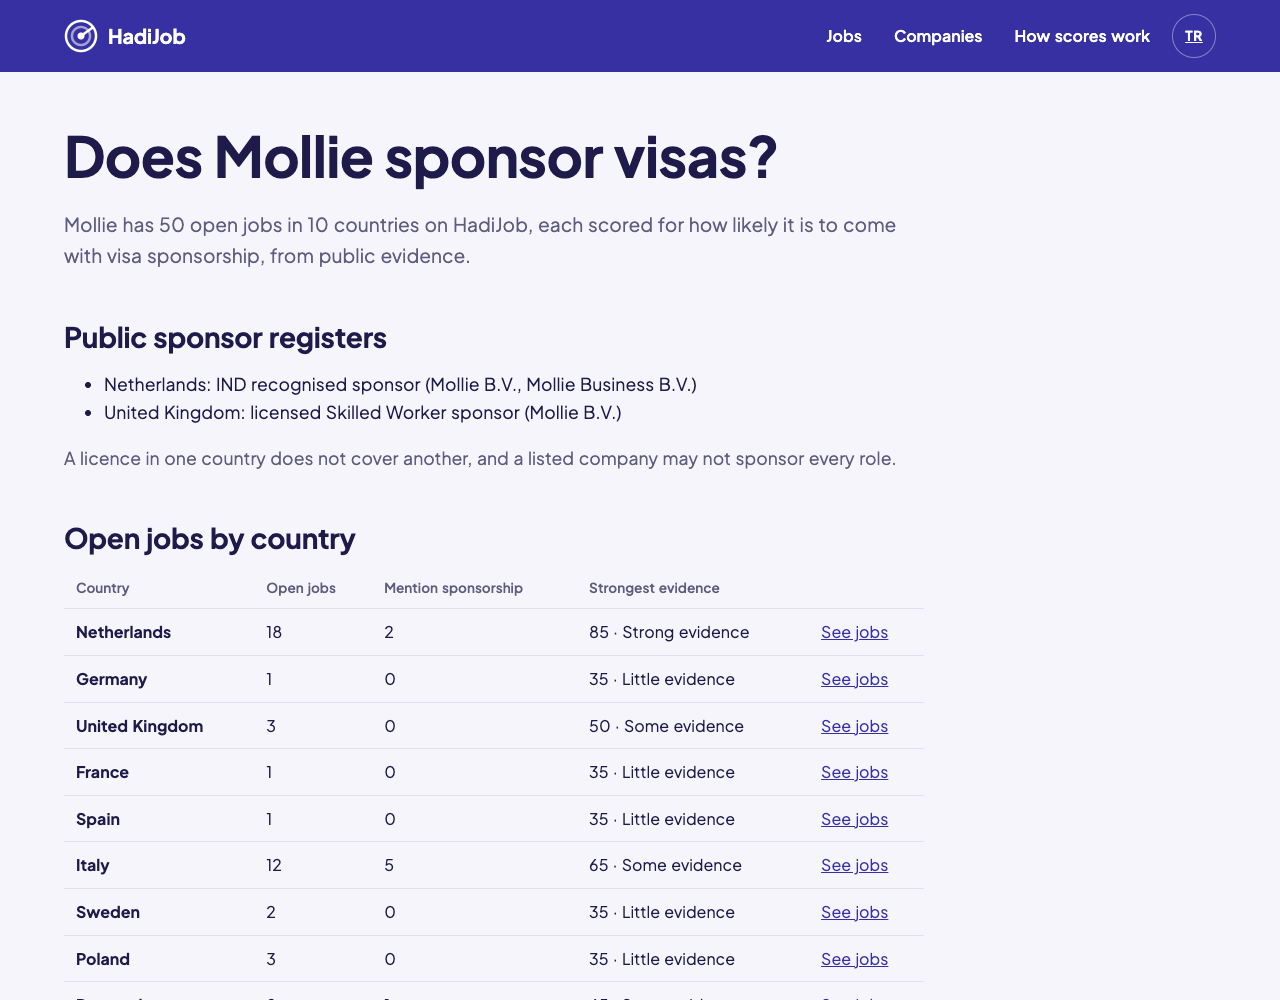
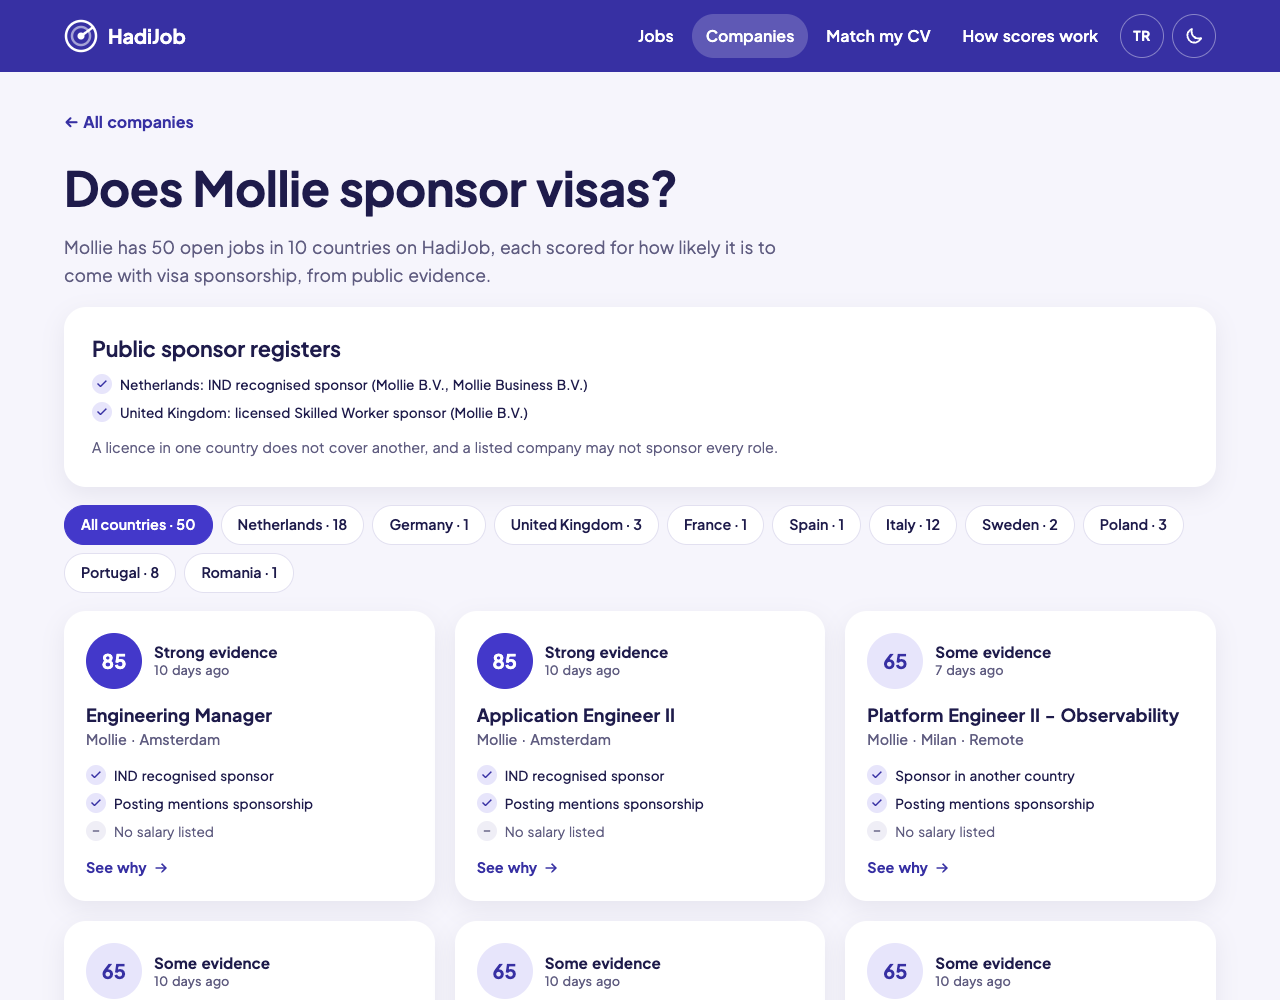
docs: company screenshot from the in-app company page

diff --git a/README.md b/README.md
@@ -48,9 +48,9 @@ HadiJob checks **public evidence** instead and turns it into a score you can rea
 **Understand**
 
 - **Every point has a reason.** "IND recognised sponsor +40", "posting mentions a relocation package +30", "salary ≥ Blue Card threshold +15". No black box.
-- **"Does this company sponsor visas?"** Each employer has its own page with the registers that list it and its open jobs per country.
+- **"Does this company sponsor visas?"** Each employer has its own page in the app, with the registers that list it and its scored jobs, filterable by country.
 
-<img src=".github/assets/company.png" alt="Company page: Does Mollie sponsor visas? It lists the IND and UK registers and the open jobs per country with their strongest evidence" width="820">
+<img src=".github/assets/company.png" alt="Company page: Does Mollie sponsor visas? It lists the IND and UK registers, a filter per country and Mollie's scored jobs" width="820">
 
 **Personalise**
 
